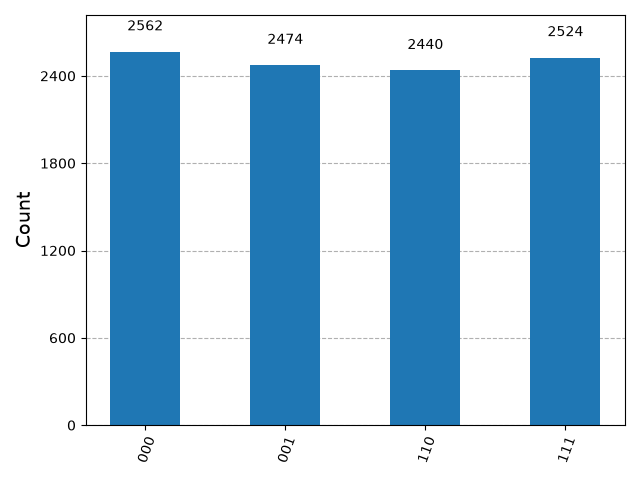
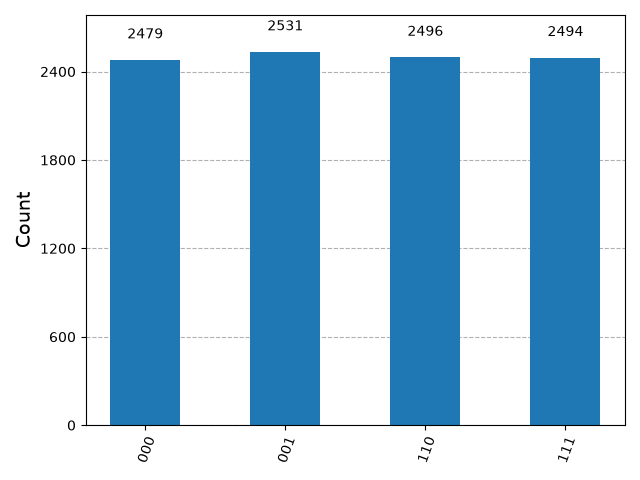
now we can run a 2+2 on real IQM device (good result) and mock device (a bit of rubbish:))

diff --git a/04-qrisp-on-iqm.py b/04-qrisp-on-iqm.py
@@ -1,5 +1,8 @@
 import os
 from qrisp import QuantumFloat
+
+# qrisp with IQM support needs python 3.13 currently => install i.e. in virtual env
+# ... and then do 'pip install qrisp[iqm]'
 from iqm.qrisp_iqm import IQMBackend
 
 if not os.environ.get("IQM_TOKEN"):
@@ -8,12 +11,35 @@ if not os.environ.get("IQM_TOKEN"):
 if not os.environ.get("IQM_SERVER_URL"):
     os.environ["IQM_SERVER_URL"] = "https://resonance.iqm.tech"
 iqm_server_url = os.environ["IQM_SERVER_URL"]
-backend = IQMBackend(server_url=iqm_server_url, device_instance = "garnet:mock")
+backend = IQMBackend(server_url=iqm_server_url, device_instance = "garnet")
 
 a = QuantumFloat(2)
-a[:] = 1
+a[:] = 2
 b = a + a
-b.get_measurement(backend = backend, shots=2000)
 
-# so far not working, since iqm's qrisp package seem sto be incopatible with python 3.15
-# ...(and also 3.14 which i tried via venv?)
+# debug the mock device
+# c = QuantumFloat(2)
+# c[:] = 1
+# print(c.get_measurement(backend = backend, shots=2000))
+# this returned {1: 0.9815, 0: 0.011, 3: 0.0065, 2: 0.001} on the real device :)
+# it  cost 0.5 credits
+
+# draw the compiled circuit via  qiskit
+qc = b.qs.compile(intended_measurements=b.reg)
+for qubit in b.reg:
+    qc.measure(qubit, qc.add_clbit())
+print(qc.to_qiskit().draw(output="text"))
+
+# get the result and display it
+result = b.get_measurement(backend = backend, shots=2000)
+print(result)
+
+# executed on IQM Garnet mock device, 2000 shots, 1 qubit, 1 measurement
+# {10: 0.269, 0: 0.2555, 5: 0.24, 15: 0.2355} --> why is there no "4"? --> debug code on both devices
+# this did not cost any credits, since we used the mock device.
+# on mock device we seem to  be getting rubbish
+
+# real device (cost: ): 
+# {4: 0.705, 6: 0.0615, 0: 0.0425, 2: 0.038, 12: 0.0355, 14: 0.022, 5: 0.02, 8: 0.016, 3: 0.013, 1: 0.0125, 10: 0.011, 9: 0.0065, 13: 0.0055, 7: 0.005, 11: 0.003, 15: 0.003}
+# we get the expected "4" with around 70.5% probability which is good enough for a realy device.
+# this is raw data (only results > 10%): [ { "0100": 1410 } ] => result is encoded in classic bits :)

diff --git a/02-qrisp-first-steps.py b/02-qrisp-first-steps.py
@@ -1,6 +1,6 @@
 from qrisp import QuantumFloat, QuantumVariable
 
-a = QuantumFloat(2)   # create a quantum-number resgister with 2 qubits  
-a[:] = 2
-b = a + a
-print(b.get_measurement())
+a = QuantumFloat(2)         # create a quantum-number resgister with 2 qubits  
+a[:] = 2                    # initialize the register with the value 2
+b = a + a                   # b is just a python variable. use it  to add a to itself.
+print(b.get_measurement())  # expect 2 + 2 = 4 as output :)

diff --git a/README.md b/README.md
@@ -6,7 +6,24 @@ We implement a few basic qc single- and two-qubit  gates, some basic algorithms 
 
 Finally, we step  up our QC game, to be able to simulate a few basic QM or quantum chemistry problems using quantum variational algorithms.
 
-The  repo is  structured in the following way:
+## The  repo is  structured in the following way:
 
-0-qubits-and-some-gates.py
-1-.... TBD
+### Physics and Math Background:
+
+TBD: create some slides
+
+### Prerequisites: 
+- Visual Studio Codewith some useful extensions (always good to  have)
+- Python 3.13 (in a venv, if you run the latest python)
+- install needed packages with pip. I.e.: matplotlib, qrisp, qiskit, etc.
+- Create accounts on IonQ and IQM's cloud access platforms, create API keys &  store in ENV variables.
+
+### The code examples:
+
+#### 01-qubits-and-some-gates.py
+
+#### 02-qrisp-first-steps.py
+
+#### 03-qrisp-GHZ-state.py
+
+#### 04-qrisp-on-iqm.py
